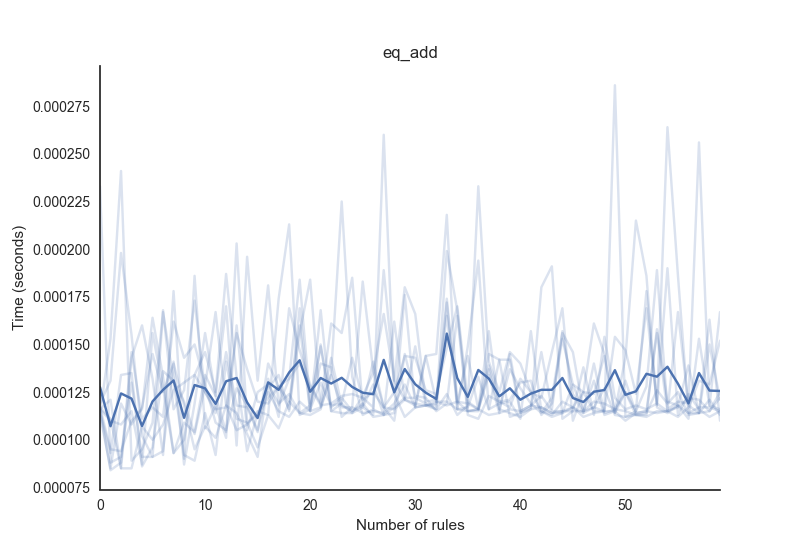
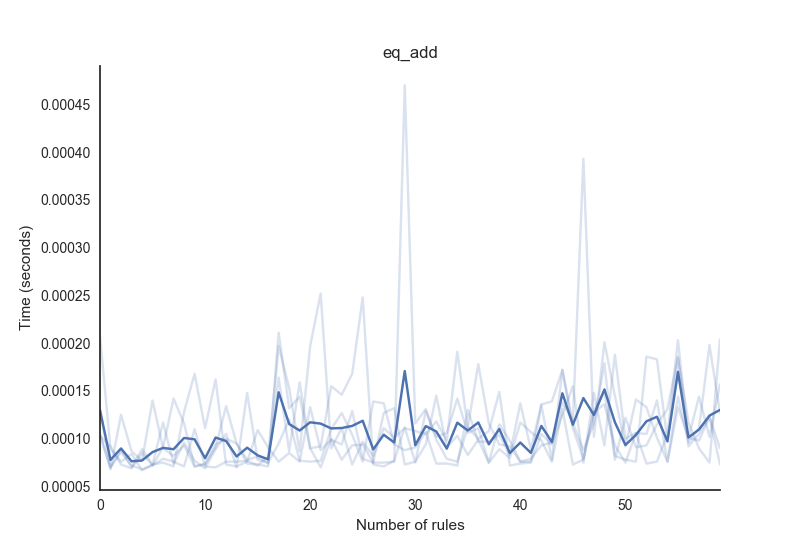
updated num_rules

diff --git a/experiments/num_rules/generate_data.py b/experiments/num_rules/generate_data.py
@@ -10,10 +10,13 @@ parser.add_argument("--iterations", "-i", default=10, type=int)
 parser.add_argument("--rules", "-r", nargs="+")
 parser.add_argument("--maxsize", "-m", default=10, type=int)
 parser.add_argument("--output", "-o", default="data.csv")
+parser.add_argument("--topdown", "-t", default=False, action="store_true")
 args = parser.parse_args()
 
 rule_string = " ".join(list(map(lambda s: "-rule " + s, args.rules)))
 CMD = "../../godel.native -target {} -subset {} -stats {} -dtree".format(args.benchmark, "{}", rule_string)
+if args.topdown:
+    CMD = CMD + " -strategy td"
 
 # cleanly wrap a command execution with a timeout handler
 def run_command(cmd, seconds):
